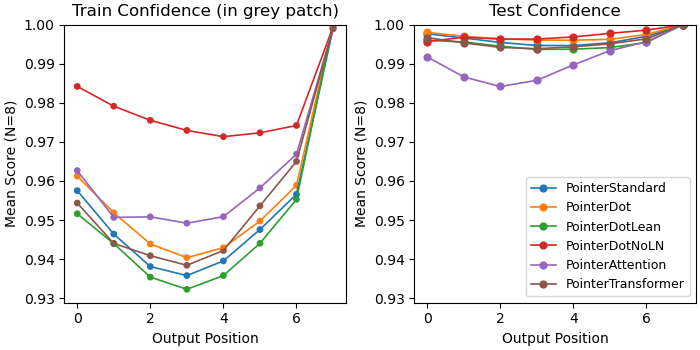
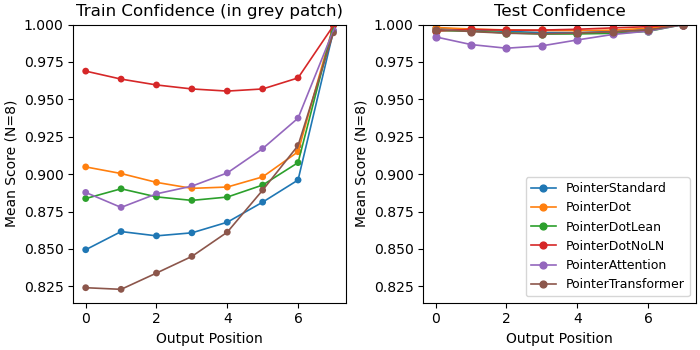
ArchitectureComparison figure edits and documentation

diff --git a/experiments/pointerArchitectureComparison.py b/experiments/pointerArchitectureComparison.py
@@ -309,7 +309,7 @@ def plotResults(results, args, eigvals):
     numPos = results['testScoreByPos'].shape[1]
     n_string = f" (N={numNets})"
     cmap = mpl.colormaps['tab10']
-    trainInspectFrom = [800, 900]
+    trainInspectFrom = [200, 300]
     trainInspect = slice(trainInspectFrom[0], trainInspectFrom[1])
     
     fig, ax = plt.subplots(1,2,figsize=(7,3.5), width_ratios=[2, 1], layout='constrained')
@@ -320,22 +320,28 @@ def plotResults(results, args, eigvals):
     ax[0].set_title('Training Performance')
     ax[0].set_xlim(-50, 1000)
     ax[0].set_ylim(None, 8)
+    ax[0].legend(loc='lower right', fontsize=9)
     yMin0, yMax0 = ax[0].get_ylim()
 
     xOffset = [-0.2, 0.2]
     get_x = lambda idx: [xOffset[0]+idx, xOffset[1]+idx]
     for idx, name in enumerate(POINTER_METHODS):
-        mnTestReward = torch.mean(results['testReward'][:,idx], dim=0)
+        mnTestReward = torch.nanmean(results['testReward'][:,idx], dim=0)
         ax[1].plot(get_x(idx), [mnTestReward.mean(), mnTestReward.mean()], color=cmap(idx), lw=4, label=name)
+        for mtr in mnTestReward:
+            ax[1].plot(get_x(idx), [mtr, mtr], color=cmap(idx), lw=1.5)
         ax[1].plot([idx,idx], [mnTestReward.min(), mnTestReward.max()], color=cmap(idx), lw=1.5)
     ax[1].set_xticks(range(len(POINTER_METHODS)))
     ax[1].set_xticklabels([pmethod[7:] for pmethod in POINTER_METHODS], rotation=45, ha='right', fontsize=8)
     ax[1].set_ylabel('Reward'+n_string)
     ax[1].set_title('Testing Performance')
-    ax[1].legend(loc='lower center', fontsize=9)
     ax[1].set_xlim(-1, len(POINTER_METHODS))
-    ax[1].set_ylim(6, 8)
-    ax[1].set_yticks([6, 7, 8])
+    ax[1].set_ylim(7.85, 8)
+    ax[1].set_yticks([7.85, 7.9, 7.95, 8])
+
+    idx = {val: idx for idx, val in enumerate(POINTER_METHODS)}['PointerDotNoLN']
+    mnDotNoLN = torch.min(torch.nanmean(results['testReward'][:,idx], dim=0))
+    ax[1].text(2.75, 7.86, f"1 net @ {mnDotNoLN:.1f}", ha='right', va='center', color=cmap(idx), fontsize=10)
 
     width = trainInspectFrom[1]-trainInspectFrom[0]
     height = yMax0 - yMin0

diff --git a/docs/pointerArchitectureComparison.md b/docs/pointerArchitectureComparison.md
@@ -170,35 +170,34 @@ The left panel shows the average cumulative reward ($\sum_t r_t$) for each
 rollout across training. All networks learn to solve the task close to optimal
 performance (i.e. close to an average cumulative reward of $8$). However, 
 networks that use new variants of the pointer layer tend to learn faster. (The
-standard pointer layer is in blue). The inset highlights the first 400 epochs 
-to show the initial learning curves for each network in more detail. 
+standard pointer layer is in blue). All of the "dot" based pointer layers 
+learn extremely quickly, whereas the "attention" and "transformer" layers are
+comparable to the standard layer. 
 
 The right panel shows the testing performance, after returning held-out 
 dominoes to the input data and averaging across 100 epochs for all 5 networks
-of each architecture. The horizontal bar indicates the average and the 
+of each architecture. The thick horizontal bar indicates the average and the 
 vertical line indicates the minimum and maximum performance for each network
-type. All new architectures except for the "Dot No Layer Norm" (DotNoLN) 
-perform better than the standard pointer layer. Additionally, the variance in
-test performance is lower for the new architectures, especially for the two 
-networks that use multi-context attention (PointerAttention and
-PointerTransformer).
+type. Each individual network's performance is shown with a thin horizontal
+bar. All new architectures are comparable with the standard pointer layer 
+(except for the DotNoLN layer, which appears to have poor generalization). 
+Although it's training trajectory is a bit slower, the transform based pointer
+layer has the best test performance in terms of the average reward and 
+variance across different models.
 
-Note: the DotNoLN networks learn fastest, see the training inset, however, 
-once they reach asymptotic performance, their behavior becomes very noisy. I
-think this is because there is no dampening on the magnitude of values going
-into the dot product, so the gradient might overflow. I haven't tested this 
-yet. 
+This result indicates that the dot based pointer layers may be useful for fast
+and rapid insight into a problem, whereas the attention and transform based
+layers may be ideal for excellent performance when highly trained. 
 
 ### Network Confidence
-What might explain the weaker performance of the standard pointer layer? Since
-the new architectures vary the mechanism by which each token is selected in an
-output sequence, one difference might be the maximum probability assigned to a 
-token in the generative phase. Since the maximum probability represents the 
-choice of the network, I'll refer to this as the network confidence. 
-
-To test this, I measured the average maximum probability in each output 
-position for the networks during a window of the training phase and during
-testing. 
+As an additional measure of network performance, I measured the network
+"confidence" throughout the task. The maximum probability token represents the
+choice of the network for each output step, so I'll refer to this as network
+confidence, which, after accounting for accuracy, is a measure of how well the
+networks have learned the task. I measured the average maximum probability in 
+each output position for the networks during a window of the training phase 
+and during testing. Since the output is forced to be a permutation of the 
+input (by masking), the output confidence of the last token has to be 100%. 
 
 ![pointer confidence](media/pointerArchitectureComparison_confidence.png)
 
@@ -210,20 +209,22 @@ corrected for the effect of temperature for the training data).
 As in the previous toy problem, the confidence is lowest for the middle parts
 of the output sequence. This is partly due to the fact that many more dominoes
 have intermediate values than extreme values (like the sum rolled on a pair of
-dice), so it's a bit harder to sort in the middle. However, the standard 
-pointer layer suffers most from this challenge, dropping in confidence by 
-almost 10%, where the other pointer layers only drop by 3-4%. 
+dice), so it's a bit harder to sort in the middle. The average confidence 
+across positions is in close correspondence to the speed of training (compare 
+with the above plot). 
 
 All networks improve their confidence over the course of training, reaching 
-near 100% confidence by the testing phase. However, the standard pointer layer
-still suffers from reductions in confidence for intermediate output positions 
-during testing, clearly standing out from the rest of the pointer layer 
-architectures. 
+near 100% confidence by the testing phase. However, the attention based 
+pointer layer continues to suffer from reductions in confidence for 
+intermediate output positions during testing. Given the fact that some 
+dominoes can be sorted in either direction, this may indicate a better 
+"understanding" of the task... in the sense that if two dominoes could be 
+sorted in either order, the probability of choosing one of them should never
+be 100%. I haven't tested this yet. 
 
-The standard pointer layer may approach equal levels of confidence if trained
-for longer; however, given the cost of training and the much greater 
-complexity of real-world problems, these new architectures may be beneficial
-for getting the most out of a network with a limited time and money budget. 
+As above, these results suggest a compromise between speed of learning and 
+final test performance, and may motivate using the "dot" based pointer layers
+in contexts where few-shot learning is helpful.
 
 ### Variations in Task: Variable Hand Size
 I also trained the networks on a task where the hand size (number of tokens to
